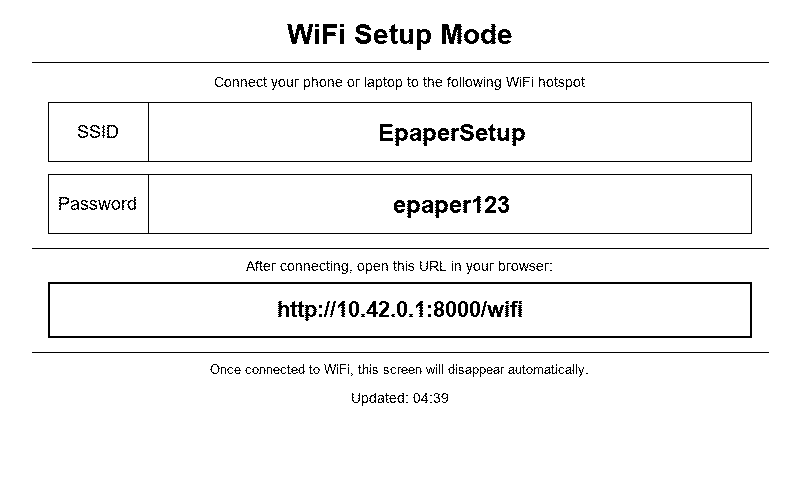
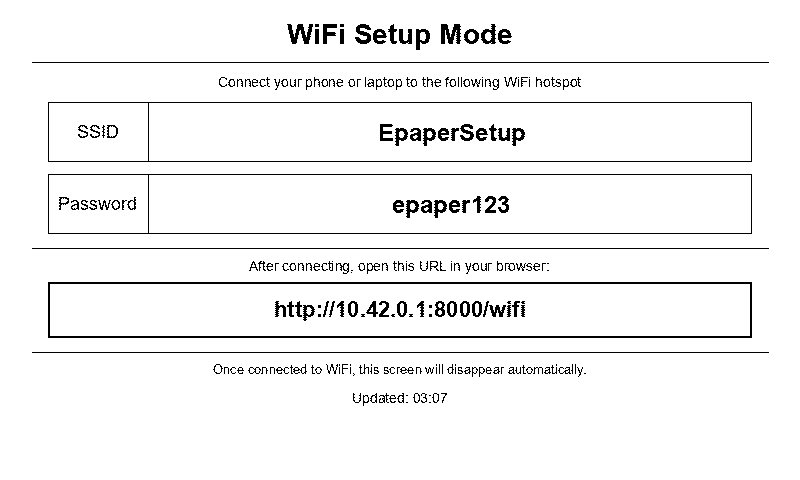
fix(button): tighten alert button behavior and clear stale state on dismiss
- Button 1 (dashboard): clear all alert state when dismissing from alert page.
- Button 3 (trigger): restrict to alert page only; add 180s cooldown to prevent MQTT/voice spam.
- Button 4 (cancel): restrict to alert page only; remove page navigation side effects.
- app/loops/presence.py: persist last alarm decision into state for downstream use.
- docs/images: update preview screenshots for alert, dashboard, and AP mode pages.

diff --git a/app/loops/button.py b/app/loops/button.py
@@ -9,6 +9,9 @@ from app.storage.logs import start_desk_session
 
 logger = logging.getLogger(__name__)
 
+# Minimum seconds between manual alarm re-triggers via button 3 (prevents MQTT/voice spam).
+_ALERT_REFRESH_COOLDOWN_SECS = 180
+
 
 def _in_ap_mode(btn_num: int) -> bool:
     if state.wifi_mode == "ap":
@@ -17,8 +20,19 @@ def _in_ap_mode(btn_num: int) -> bool:
     return False
 
 
+def _alert_within_cooldown(now: _DateTime) -> bool:
+    """Return True if the last alert refresh is within the cooldown window."""
+    if state.alert_last_triggered_at is None:
+        return False
+    return (now - state.alert_last_triggered_at).total_seconds() < _ALERT_REFRESH_COOLDOWN_SECS
+
+
 async def _handle_btn_dashboard(display_queue: asyncio.Queue) -> None:
-    """Button 1 (GPIO 5) — force OCCUPIED and switch to Dashboard."""
+    """Button 1 (GPIO 5) — force OCCUPIED and switch to Dashboard.
+
+    Clears alert state when transitioning from the alert page so that
+    presence_loop does not continue acting on stale alert data.
+    """
     if _in_ap_mode(1):
         return
     if state.presence != "OCCUPIED" and state.desk_session_id is None:
@@ -29,6 +43,13 @@ async def _handle_btn_dashboard(display_queue: asyncio.Queue) -> None:
             state.desk_session_start = now
         except Exception as exc:
             logger.error("Button 1: failed to start desk session: %s", exc)
+    if state.display_page == "alert":
+        state.last_snapshot_image = None
+        state.last_alarm_decision = None
+        state.last_alert = None
+        state.alert_face_event = None
+        state.alert_last_triggered_at = None
+        state.alert_page_started_at = None
     state.presence = "OCCUPIED"
     state.display_page = "dashboard"
     try:
@@ -55,27 +76,29 @@ async def _handle_btn_alert_page(display_queue: asyncio.Queue) -> None:
 
 
 async def _handle_btn_trigger_alarm(
-    display_queue: asyncio.Queue,
     voice_service,
     mqtt_service,
 ) -> None:
-    """Button 3 (GPIO 22) — manually trigger alarm.
+    """Button 3 (GPIO 22) — re-send alarm signal while on the alert page.
 
-    Publishes to home/home_state/alarm_decision (not home/security/alert) to avoid
-    self-echo: the device subscribes to home/security/alert, so publishing there would
-    re-trigger state updates and double the voice alert.
+    Only activates when already on the alert page (entered via MQTT alert).
+    Does NOT switch pages or push to the display queue; only publishes to
+    home/home_state/alarm_decision and plays the voice alert.
+    Repeated presses within _ALERT_REFRESH_COOLDOWN_SECS are ignored to
+    prevent MQTT and voice spam.
     """
     if _in_ap_mode(3):
         return
-    now = _DateTime.now()
     if state.display_page != "alert":
-        state.alert_page_started_at = now
+        logger.debug("Button 3 ignored: not on alert page")
+        return
+    now = _DateTime.now()
+    if _alert_within_cooldown(now):
+        logger.debug(
+            "Button 3 ignored: within %ds cooldown", _ALERT_REFRESH_COOLDOWN_SECS
+        )
+        return
     state.alert_last_triggered_at = now
-    state.display_page = "alert"
-    try:
-        display_queue.put_nowait("alert")
-    except asyncio.QueueFull:
-        logger.debug("Display queue full on button 3 press")
     if mqtt_service is not None:
         try:
             mqtt_service.publish("home/home_state/alarm_decision", {
@@ -86,24 +109,21 @@ async def _handle_btn_trigger_alarm(
             logger.error("Button 3: MQTT publish failed: %s", exc)
     if voice_service is not None:
         await voice_service.play("alert.wav")
-    logger.info("Button 3: manual alarm triggered")
+    logger.info("Button 3: alarm re-triggered (MQTT + voice, no display change)")
 
 
-async def _handle_btn_cancel_alarm(display_queue: asyncio.Queue, mqtt_service) -> None:
-    """Button 4 (GPIO 27) — cancel alarm and return to Dashboard."""
+async def _handle_btn_cancel_alarm(mqtt_service) -> None:
+    """Button 4 (GPIO 27) — send cancel signal while on the alert page.
+
+    Only activates when already on the alert page.
+    Does NOT switch pages or clear state; only publishes
+    home/home_state/alarm_decision with decision=cancel.
+    """
     if _in_ap_mode(4):
         return
-    state.display_page = "dashboard"
-    state.last_snapshot_image = None
-    state.alert_last_triggered_at = None
-    state.alert_page_started_at = None
-    state.last_alarm_decision = None
-    state.last_alert = None
-    state.alert_face_event = None
-    try:
-        display_queue.put_nowait("dashboard")
-    except asyncio.QueueFull:
-        logger.debug("Display queue full on button 4 press")
+    if state.display_page != "alert":
+        logger.debug("Button 4 ignored: not on alert page")
+        return
     if mqtt_service is not None:
         try:
             mqtt_service.publish("home/home_state/alarm_decision", {
@@ -112,4 +132,4 @@ async def _handle_btn_cancel_alarm(display_queue: asyncio.Queue, mqtt_service) -
             })
         except Exception as exc:
             logger.error("Button 4: MQTT publish failed: %s", exc)
-    logger.info("Button 4: alarm cancelled")
+    logger.info("Button 4: alarm cancel signal sent")

diff --git a/app/main.py b/app/main.py
@@ -95,13 +95,13 @@ async def main() -> None:
 
     def _on_btn_2():
         f = asyncio.run_coroutine_threadsafe(
-            _handle_btn_trigger_alarm(display_queue, voice_service, mqtt_service), loop
+            _handle_btn_trigger_alarm(voice_service, mqtt_service), loop
         )
         f.add_done_callback(make_done_callback("Button 3"))
 
     def _on_btn_3():
         f = asyncio.run_coroutine_threadsafe(
-            _handle_btn_cancel_alarm(display_queue, mqtt_service), loop
+            _handle_btn_cancel_alarm(mqtt_service), loop
         )
         f.add_done_callback(make_done_callback("Button 4"))
 

diff --git a/app/loops/presence.py b/app/loops/presence.py
@@ -82,6 +82,7 @@ async def _presence_loop(
                 decision, reason = compute_alarm_decision(
                     presence, score, alert, state.last_face_event
                 )
+                state.last_alarm_decision = decision
                 await log_alarm_decision(decision, reason, score)
                 if alert is not _last_processed_alert or (decision, reason) != _last_published_decision:
                     try:
